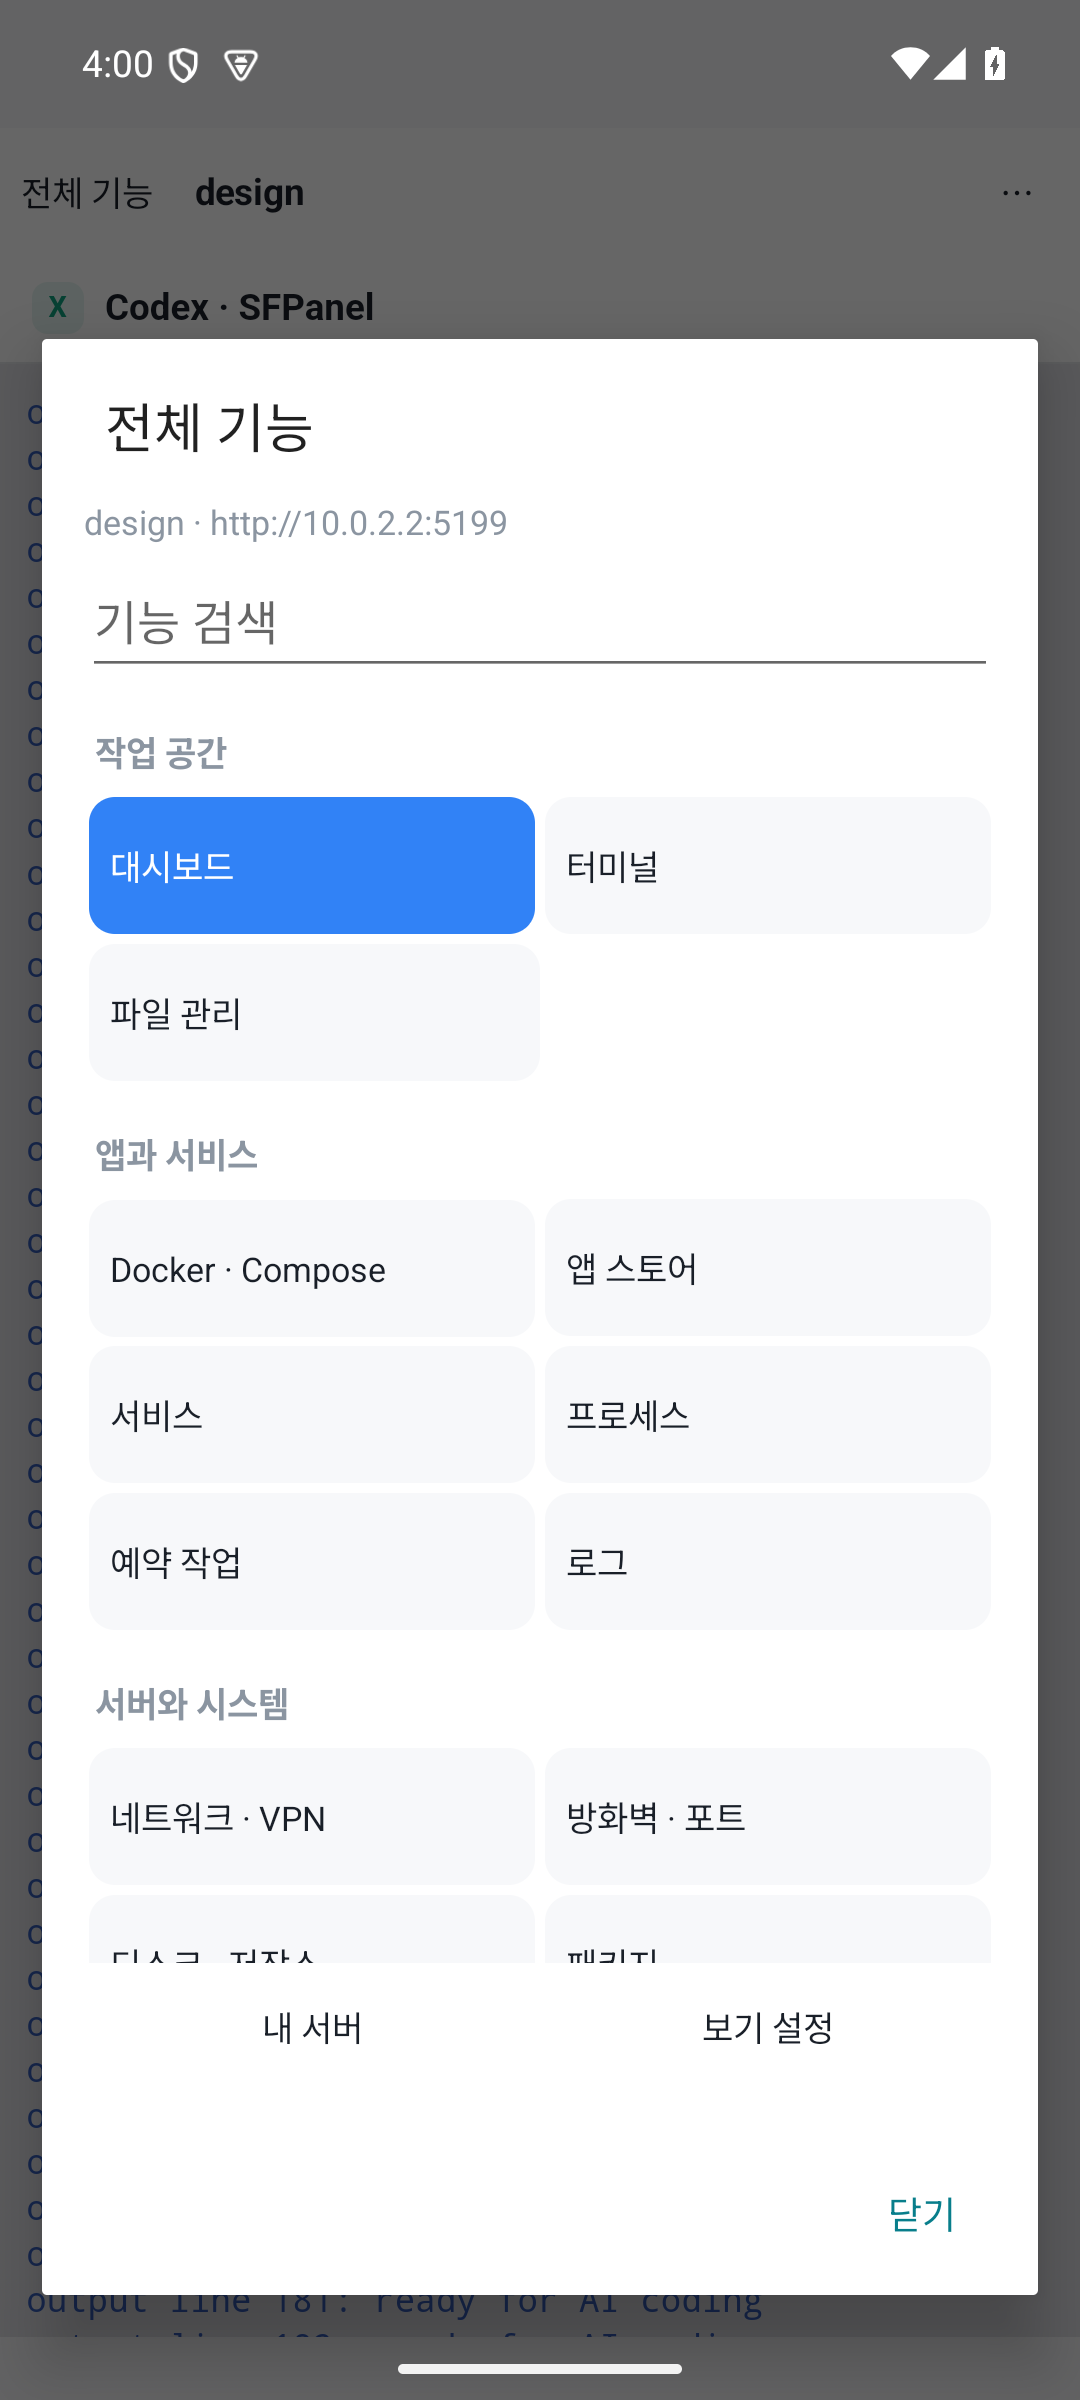
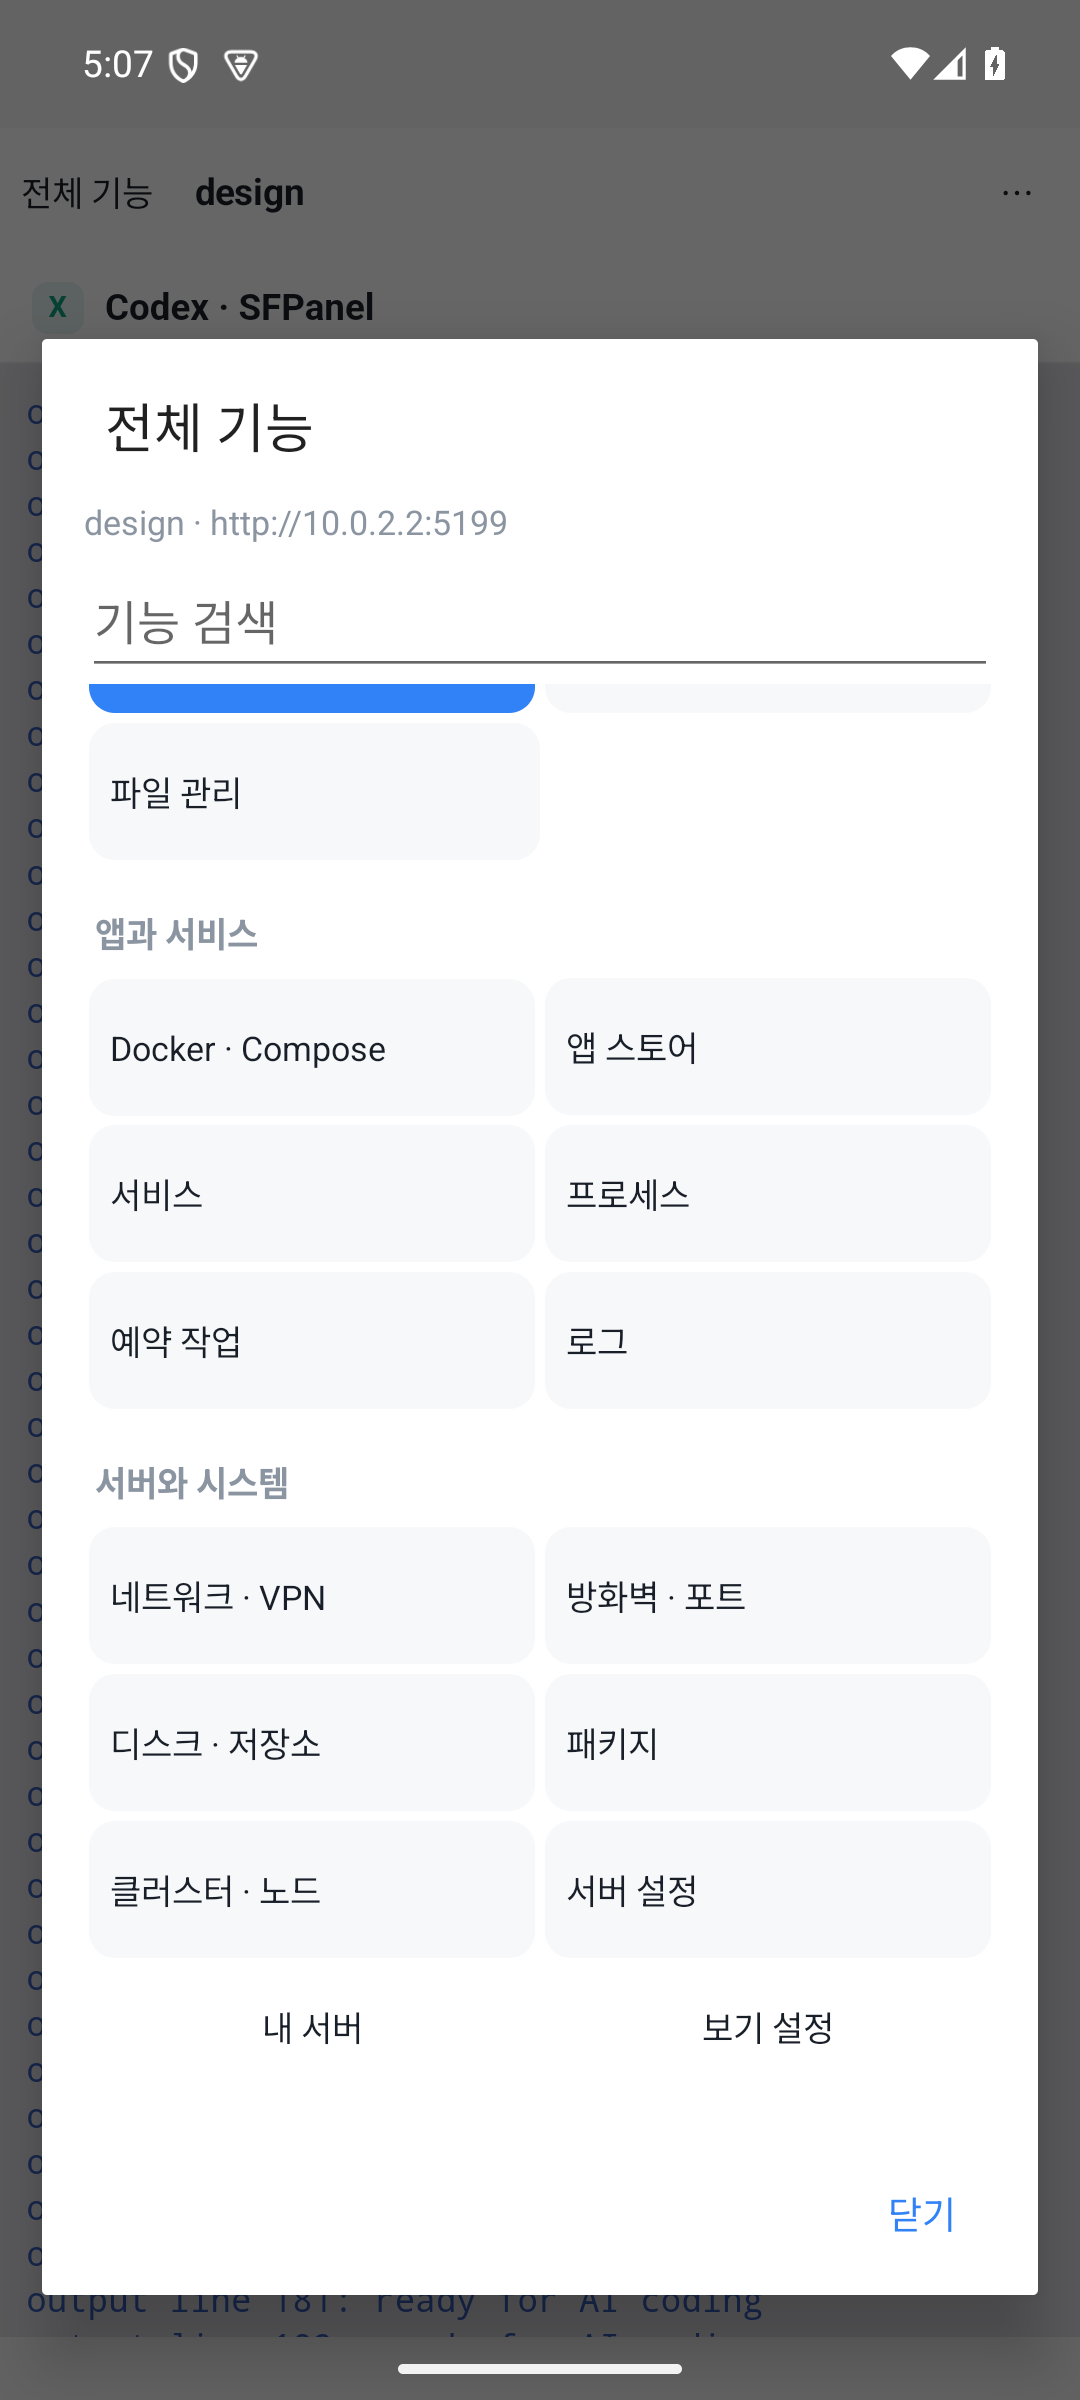
fix(android): caps that hold their labels, dialogs in the panel's blue

diff --git a/android/app/src/main/java/com/sfpanel/android/MainActivity.java b/android/app/src/main/java/com/sfpanel/android/MainActivity.java
@@ -58,7 +58,6 @@ public final class MainActivity extends Activity {
     private static final int MUTED   = 0xff8b95a1;  // --muted-foreground
     private static final int ACCENT  = 0xff3182f6;  // --primary
     private static final int LINE    = 0xffe5e8eb;  // --border
-    private static final int DANGER  = 0xffe5484d;  // --destructive
     private static final int PICK_FILES = 10;
     private final ExecutorService worker = Executors.newSingleThreadExecutor();
     private SharedPreferences prefs;
@@ -163,7 +162,7 @@ public final class MainActivity extends Activity {
         // its own label as the description a screen reader announces.
         Button options = compactButton("⚙", this::showOptions);
         options.setTextSize(20 * readingScale()); options.setContentDescription(getString(R.string.options));
-        homeHeader.addView(options, new LinearLayout.LayoutParams(dp(48), dp(48)));
+        homeHeader.addView(options, new LinearLayout.LayoutParams(-2, -2));
         body.addView(heading(R.string.saved_servers, 18));
 
         // The servers lead: one card, a row each, hairlines between them.
@@ -200,7 +199,7 @@ public final class MainActivity extends Activity {
         addServer.setMinHeight(dp(48)); addServer.setMinimumHeight(dp(48));
         addServer.setBackground(new android.graphics.drawable.RippleDrawable(
                 android.content.res.ColorStateList.valueOf((ACCENT & 0x00ffffff) | 0x22000000), surface(ACCENT, 12), null));
-        LinearLayout.LayoutParams addParams = new LinearLayout.LayoutParams(-1, dp(48)); addParams.topMargin = dp(16);
+        LinearLayout.LayoutParams addParams = new LinearLayout.LayoutParams(-1, -2); addParams.topMargin = dp(16);
         body.addView(addServer, addParams);
         // One primary on the screen at a time: the form is what the button opens.
         card.setVisibility(View.GONE);
@@ -227,8 +226,10 @@ public final class MainActivity extends Activity {
         LinearLayout row = new LinearLayout(this); row.setGravity(Gravity.CENTER_VERTICAL);
         row.setPadding(dp(16), dp(8), dp(16), dp(8)); row.setMinimumHeight(dp(64));
         row.setLayoutParams(new LinearLayout.LayoutParams(-1, -2));
+        // The mask bounds the ripple: without one it spreads past the row and
+        // over the card's rounded corners.
         row.setBackground(new android.graphics.drawable.RippleDrawable(
-                android.content.res.ColorStateList.valueOf((ACCENT & 0x00ffffff) | 0x22000000), null, null));
+                android.content.res.ColorStateList.valueOf((ACCENT & 0x00ffffff) | 0x22000000), null, surface(Color.WHITE, 16)));
         row.setContentDescription(getString(R.string.open_server, server.name()) + ", " + server.address());
         row.setOnClickListener(v -> requestConnect(server));
         View dot = new View(this); dot.setBackground(surface(MUTED, 4));
@@ -428,7 +429,18 @@ public final class MainActivity extends Activity {
     private Button barButton(LinearLayout row, String label, float weight, Runnable action) {
         Button b = compactButton(label, action);
         b.setMinHeight(dp(44)); b.setMinimumHeight(dp(44)); b.setBackground(keyCap());
-        LinearLayout.LayoutParams p = new LinearLayout.LayoutParams(0, dp(44), weight);
+        // The label keeps its one line, the cap grows around it, and the label
+        // sizes itself down to whatever the cap can hold. At the system's
+        // largest font scale a fixed dp(44) box wrapped "Enter" into a second
+        // line it had no room for: the cap read "Ent" and the row stepped down
+        // to align baselines with its neighbours. setMaxLines, not
+        // setSingleLine — single-line mode scrolls horizontally, so a label
+        // never wraps, always "fits", and the auto-sizing below never fires.
+        b.setMaxLines(1); b.setEllipsize(android.text.TextUtils.TruncateAt.END);
+        b.setPadding(dp(6), 0, dp(6), 0);
+        b.setAutoSizeTextTypeUniformWithConfiguration(Math.round(7 * readingScale()),
+                Math.round(13 * readingScale()), 1, android.util.TypedValue.COMPLEX_UNIT_SP);
+        LinearLayout.LayoutParams p = new LinearLayout.LayoutParams(0, -2, weight);
         p.setMargins(dp(2), dp(2), dp(2), dp(2)); row.addView(b, p);
         return b;
     }
@@ -438,7 +450,7 @@ public final class MainActivity extends Activity {
         // Row one is the keys a CLI hint names — the arrows above all. They
         // used to live inside the Tools dock, so a prompt that said
         // "shift + ←" pointed at a key that was one tap out of sight.
-        LinearLayout keys = new LinearLayout(this); terminalBar.addView(keys);
+        LinearLayout keys = new LinearLayout(this); keys.setBaselineAligned(false); terminalBar.addView(keys);
         addBarKey(keys, "←", "\u001b[D", R.string.key_left);
         addBarKey(keys, "↑", "\u001b[A", R.string.key_up);
         addBarKey(keys, "↓", "\u001b[B", R.string.key_down);
@@ -447,7 +459,7 @@ public final class MainActivity extends Activity {
         addBarKey(keys, "Tab", "\t", 0);
         addBarKey(keys, "Enter", "\r", 0);
 
-        LinearLayout actions = new LinearLayout(this); terminalBar.addView(actions);
+        LinearLayout actions = new LinearLayout(this); actions.setBaselineAligned(false); terminalBar.addView(actions);
         shiftButton = barButton(actions, "Shift", 1f, () -> { shift = !shift; updateModifiers(); });
         ctrlButton  = barButton(actions, "Ctrl",  1f, () -> { ctrl  = !ctrl;  updateModifiers(); });
         altButton   = barButton(actions, "Alt",   1f, () -> { alt   = !alt;   updateModifiers(); });
@@ -455,7 +467,11 @@ public final class MainActivity extends Activity {
         write.setContentDescription(getString(R.string.write_prompt));
         moreKeysButton = barButton(actions, getString(R.string.keys_short), 1.4f, this::showKeypad);
         moreKeysButton.setContentDescription(getString(R.string.keys_more));
-        keyDock = column(); keyDock.setBackgroundColor(BG); keyDock.setVisibility(View.GONE); terminalBar.addView(keyDock);
+        // The dock is a surface of its own: its keys carry no cap of their own,
+        // so on the bar's grey they read as text floating over the bar.
+        keyDock = column(); keyDock.setBackgroundColor(SURFACE); keyDock.setVisibility(View.GONE); terminalBar.addView(keyDock);
+        View dockEdge = new View(this); dockEdge.setBackgroundColor(LINE);
+        keyDock.addView(dockEdge, new LinearLayout.LayoutParams(-1, dp(1)));
         LinearLayout tabs = new LinearLayout(this); keyDock.addView(tabs);
         int[] groups = {R.string.dock_move, R.string.dock_shortcuts, R.string.dock_output};
         for (int i = 0; i < groups.length; i++) {

diff --git a/android/TESTING.md b/android/TESTING.md
@@ -79,4 +79,11 @@ Lint 경고는 동적 LAN 서버를 위한 HTTP 허용, 사용자가 설치한 C
 - 마지막 줄이 가려지지 않습니다. 목록을 끝까지 내리면 `클러스터 · 노드`와 `서버 설정`이 `[89,1821][535,1958]`, `[545,1821][991,1958]`로 온전히 보이고, 그 아래 `내 서버`·`보기 설정` 줄은 `y=1963`에서 시작해 겹치지 않습니다.
 - `/terminal`의 `⋯`는 9개 항목입니다. v0.76.0에서 AI 화면이 터미널로 합쳐졌으므로 `AI 도구·계정 설정 열기/닫기`와 `세션 관리`도 이 화면의 메뉴입니다. 번호가 밀리지 않았는지 `터미널 조작`으로 도구가 펼쳐지는 것과 `키보드 열기`로 WebView 높이가 1802 → 980px로 줄어드는 것을 확인했습니다.
 - `docs/`의 서버 목록·전체 기능·키보드·접이식 도구 스크린샷을 같은 에뮬레이터에서 다시 찍어 교체했습니다.
-- 실제 휴대폰, 큰 글꼴, TalkBack, 실제 tmux 세션의 AI 도구 패널은 이번 검증에 포함하지 않았습니다.
+- 실제 휴대폰, TalkBack, 실제 tmux 세션의 AI 도구 패널은 이번 검증에 포함하지 않았습니다.
+
+## 큰 글꼴 — 시스템 글자 크기 200% (2026-09-19)
+
+- `settings put system font_scale 2.0`을 적용한 같은 에뮬레이터에서 확인했습니다.
+- 키 바 두 줄의 캡이 모두 `h=116`(44dp)이고 첫 줄은 `y=2074`, 둘째 줄은 `y=2200`에서 시작합니다. 줄이 어긋나거나 글자가 잘려 나가지 않습니다. 캡 너비에 들어가지 않는 `Enter`는 캡에 맞춰 글자 크기를 줄여 전체 레이블을 보여 줍니다.
+- 이 상태에서 `Shift` → `←` 순서로 눌러 `ESC[1;2D` 전송을 다시 확인했습니다.
+- `서버 연결하기` 버튼은 126 → 149px로 늘어나 글자를 자르지 않습니다. 글자 크기 100%에서는 126px 그대로입니다.
